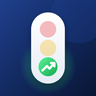
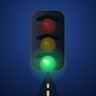
Farol: volta o ícone de semáforo escuro com o verde aceso (sem símbolo)
Claude-Session: https://claude.ai/code/session_01E4AjPxqzJw7QhPjVE5xKtq

diff --git a/sw.js b/sw.js
@@ -1,6 +1,6 @@
 // Farol Operacional — service worker
 // Rede primeiro para o app (recebe as atualizações na hora) e cópia guardada para abrir sem internet.
-const CACHE="farol-v17"; const APP=["./","index.html","instalar.html","icons/qr-instalar.svg","parser.js","pacote.js","vendor/jspdf.umd.min.js","vendor/html2canvas.min.js","vendor/pdf.min.mjs","vendor/pdf.worker.min.mjs","manifest.webmanifest","icons/icon-192.png","icons/icon-512.png","icons/apple-touch-180.png","icons/logo-los.png","icons/simbolo-los.png","icons/icone-96.png"];
+const CACHE="farol-v18"; const APP=["./","index.html","instalar.html","icons/qr-instalar.svg","parser.js","pacote.js","vendor/jspdf.umd.min.js","vendor/html2canvas.min.js","vendor/pdf.min.mjs","vendor/pdf.worker.min.mjs","manifest.webmanifest","icons/icon-192.png","icons/icon-512.png","icons/apple-touch-180.png","icons/logo-los.png","icons/simbolo-los.png","icons/icone-96.png"];
 self.addEventListener("install",e=>{e.waitUntil(caches.open(CACHE).then(c=>c.addAll(APP)));self.skipWaiting();});
 self.addEventListener("activate",e=>{e.waitUntil(caches.keys().then(k=>Promise.all(k.filter(x=>x!==CACHE).map(x=>caches.delete(x)))));self.clients.claim();});
 self.addEventListener("fetch",e=>{const u=new URL(e.request.url);if(e.request.method!=="GET"||u.origin!==location.origin)return;
